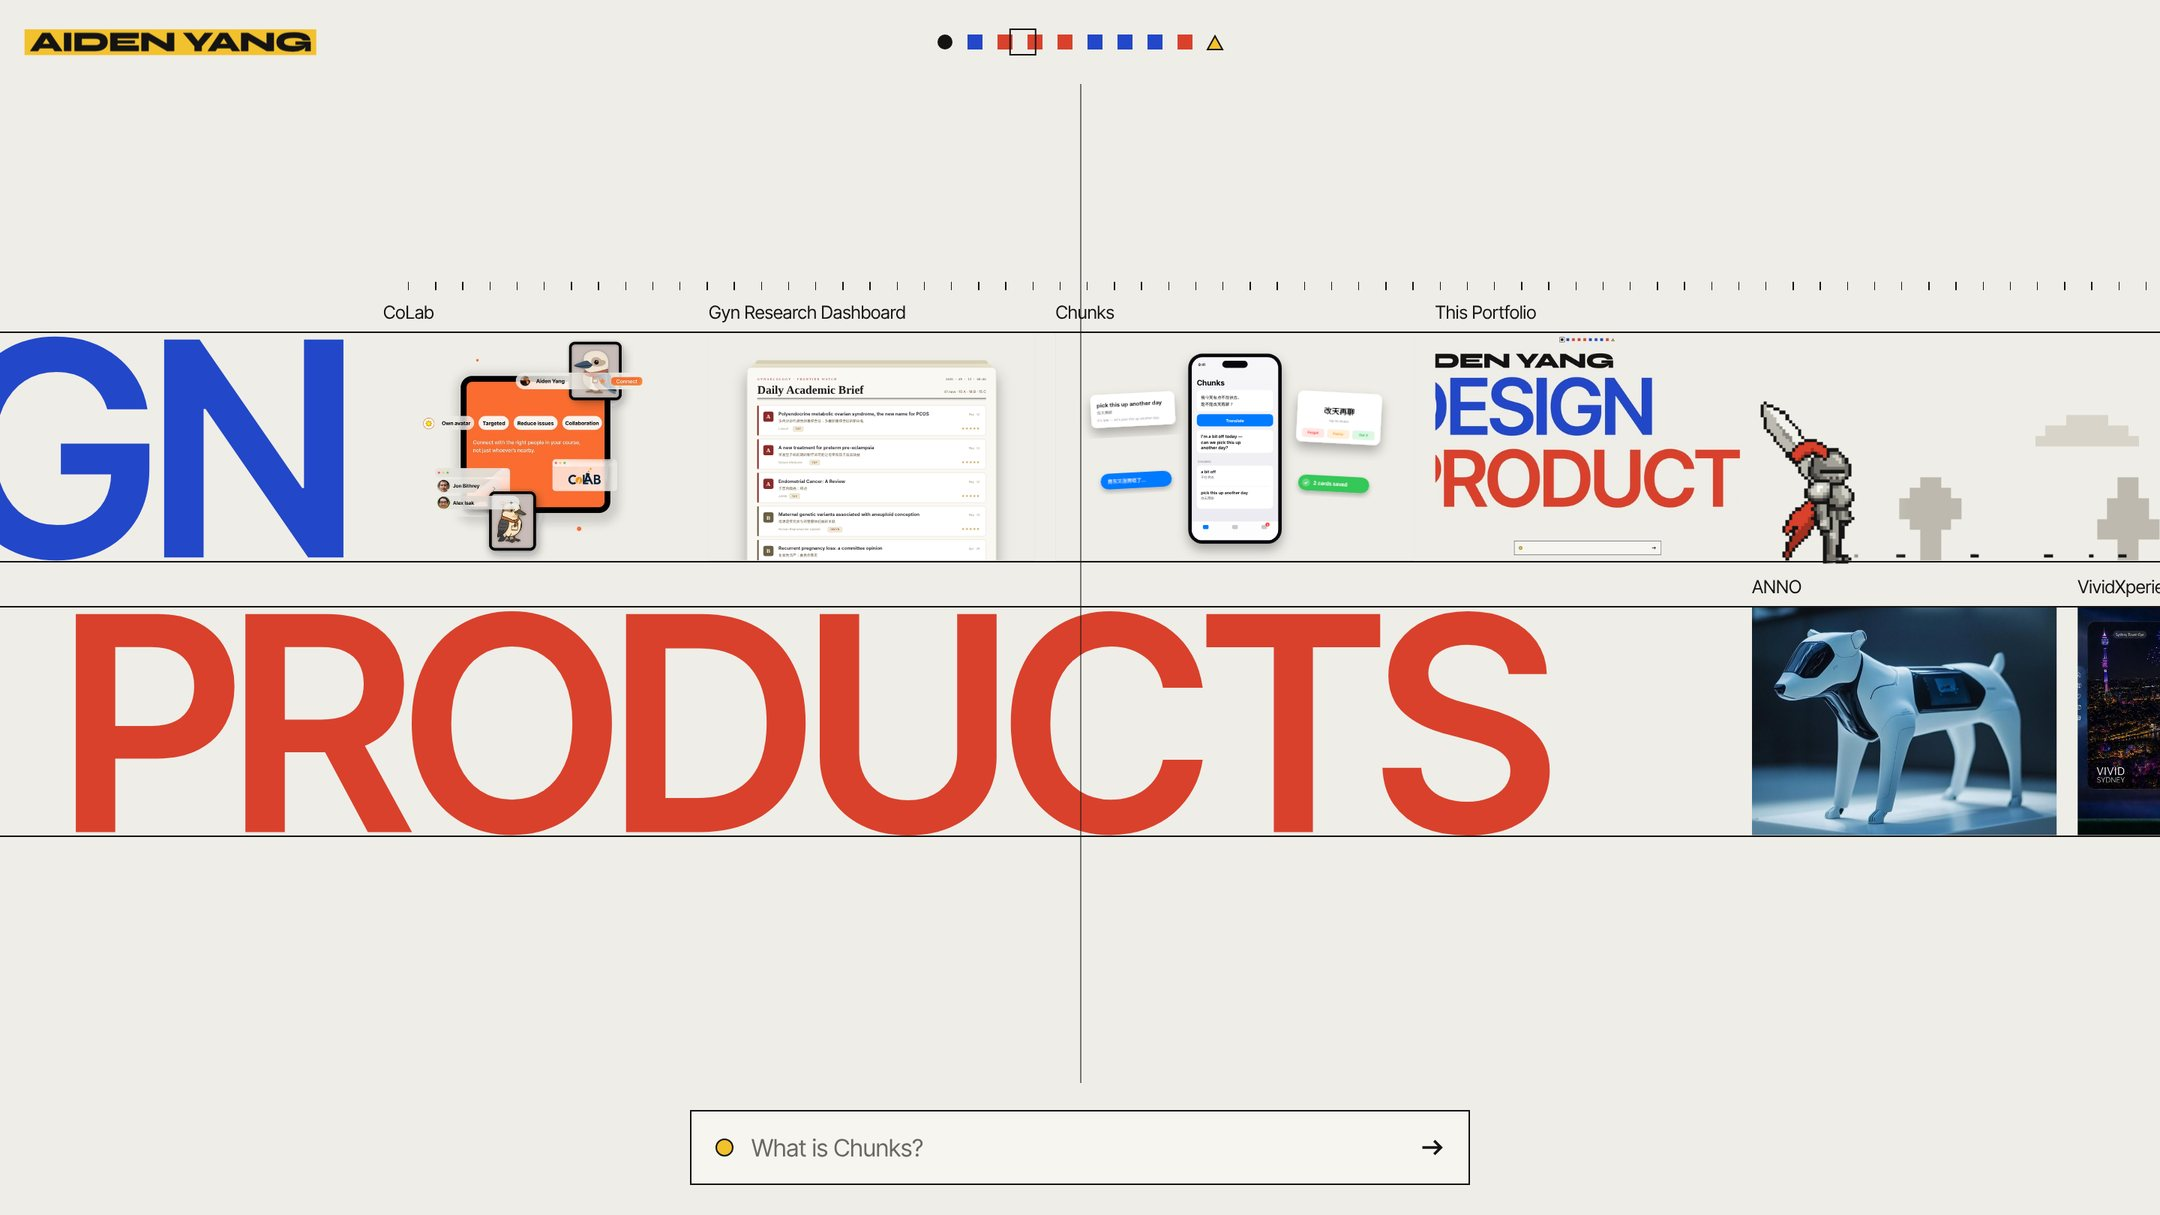
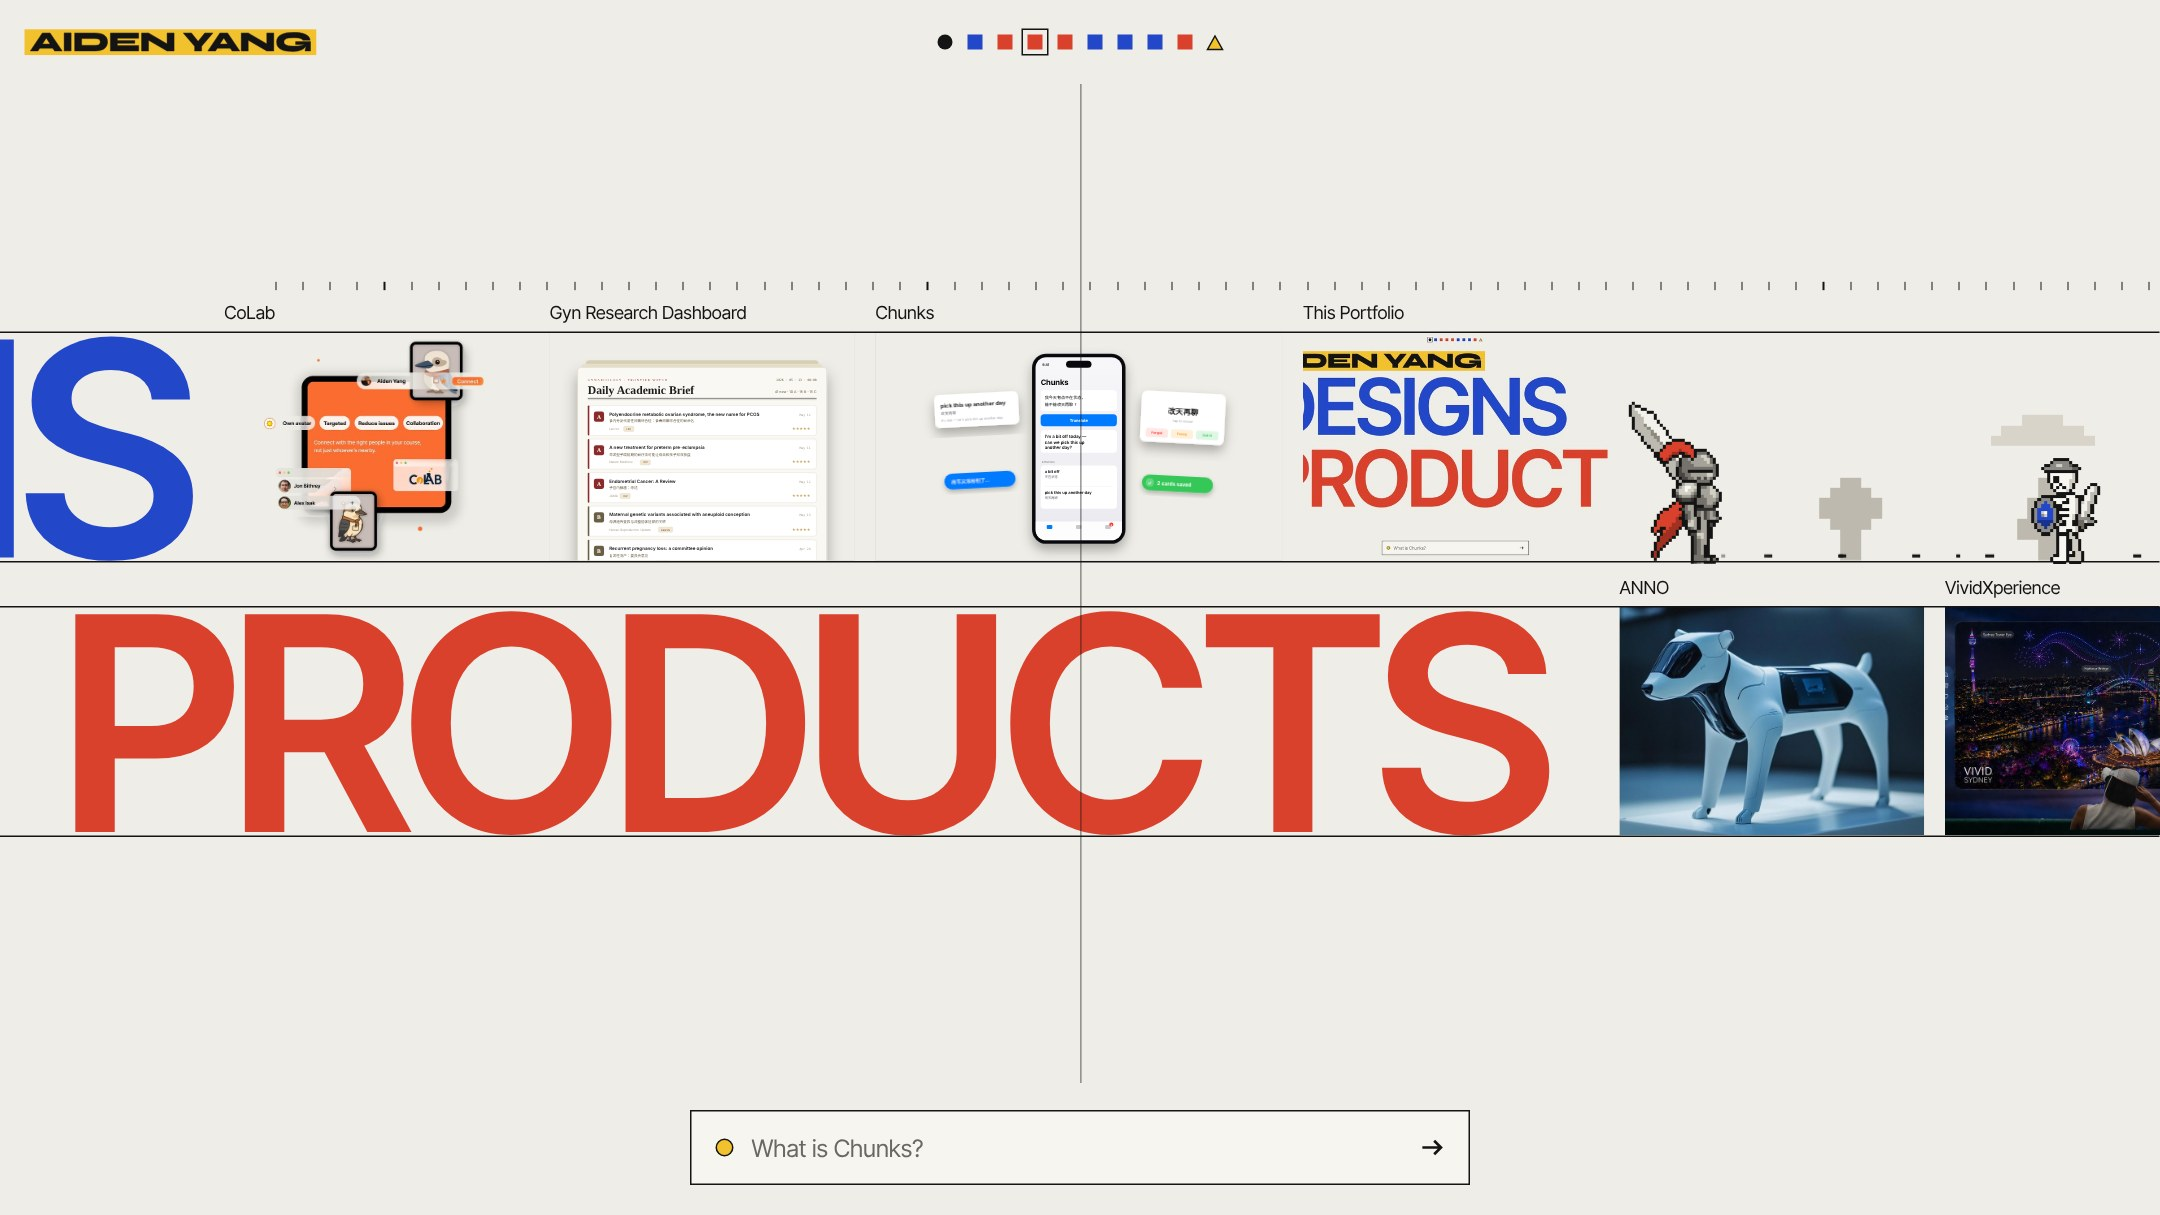
Homepage: DESIGN → DESIGNS, so the opening reads as one sentence
AIDEN YANG DESIGNS PRODUCTS. Re-shot the homepage screenshots and the
This Portfolio thumbnail, and told AI Aiden the rows are not categories.

Claude-Session: https://claude.ai/code/session_01VzWjWzK5NHuZU2Nujf8Cn2

Changed region(s): [[0.0, 0.2436, 1.0, 0.7004]]

diff --git a/index.html b/index.html
@@ -228,7 +228,7 @@ body{overflow-x:hidden}
 
 <div id="tl-world" style="position: absolute; left: 0; top: 0; width: 0; height: 0; transform-origin: 0 0; transform: translate(50vw, calc(50vh - 72px)) scale(1.09) translate(-644px, -242px)">
 <span aria-hidden="true" style="translate: var(--sh, 0px) 0; position: absolute; left: 1260px; top: -48px; width: 2565px; height: 8px; background: repeating-linear-gradient(90deg, #141414 0px, #141414 1px, transparent 1px, transparent 26.1px)"></span>
-<span data-pin="1" data-lane="1" data-side="pre" data-a="0" data-b="1260" aria-hidden="true" style="position: absolute; left: 0; top: 0; height: 220px; overflow: hidden; pointer-events: none; transform: translateX(20px)"><span class="lift" style="animation-delay: .1s; margin-top: 2px; height: 220px; line-height: 220px; padding-right: 0.05em; font-size: 288px; font-weight: 600; letter-spacing: -0.04em; color: var(--c1); white-space: nowrap">DESIGN</span></span>
+<span data-pin="1" data-lane="1" data-side="pre" data-a="0" data-b="1260" aria-hidden="true" style="position: absolute; left: 0; top: 0; height: 220px; overflow: hidden; pointer-events: none; transform: translateX(20px)"><span class="lift" style="animation-delay: .1s; margin-top: 2px; height: 220px; line-height: 220px; padding-right: 0.05em; font-size: 288px; font-weight: 600; letter-spacing: -0.04em; color: var(--c1); white-space: nowrap">DESIGNS</span></span>
 <span data-pin="1" data-lane="2" data-side="pre" data-a="0" data-b="2552" aria-hidden="true" style="position: absolute; left: 0; top: 264px; height: 220px; overflow: hidden; pointer-events: none; transform: translateX(20px)"><span class="lift" style="animation-delay: .25s; margin-top: 2px; height: 220px; line-height: 220px; padding-right: 0.05em; font-size: 288px; font-weight: 600; letter-spacing: -0.04em; color: var(--c2); white-space: nowrap">PRODUCTS</span></span>
 
 <span aria-hidden="true" style="position: absolute; left: 2620px; top: 0; width: 1304px; height: 220px; overflow: hidden; pointer-events: none; -webkit-mask-image: linear-gradient(90deg, transparent 0px, #000 80px, #000 1150px, transparent 1290px); mask-image: linear-gradient(90deg, transparent 0px, #000 80px, #000 1150px, transparent 1290px)">
@@ -323,7 +323,7 @@ body{overflow-x:hidden}
 </main>
 <div id="mv">
 <div class="mv-bar" aria-hidden="true"></div>
-<div class="mv-hero"><div class="mv-ns"></div><div class="mv-w" style="color: var(--c1)"><span class="lift" style="animation-delay: .1s">DESIGN</span></div><div class="mv-w" style="color: var(--c2)"><span class="lift" style="animation-delay: .25s">PRODUCTS</span></div></div>
+<div class="mv-hero"><div class="mv-ns"></div><div class="mv-w" style="color: var(--c1)"><span class="lift" style="animation-delay: .1s">DESIGNS</span></div><div class="mv-w" style="color: var(--c2)"><span class="lift" style="animation-delay: .25s">PRODUCTS</span></div></div>
 <div class="mv-tl"><i class="mv-ticks" aria-hidden="true"></i></div>
 <div class="mv-end"><h2><span>READY TO</span><span class="y">START?</span></h2><div class="mv-links"><a class="lnk" href="mailto:AidenYang5995@gmail.com">Send a message</a><a class="lnk" href="https://www.linkedin.com/in/aiden-yang-ty">LinkedIn</a><a class="lnk" href="https://github.com/Li1aid">GitHub</a></div></div>
 <span class="mv-ph" aria-hidden="true"></span>

diff --git a/projects/this-site.html b/projects/this-site.html
@@ -31,7 +31,7 @@
 <p class="cs-sub">A portfolio you scrub like a video timeline.</p>
 <dl class="cs-meta"><div><dt>Role</dt><dd>Design · Direction</dd></div><div><dt>Year</dt><dd>2026</dd></div><div><dt>Stack</dt><dd>HTML · CSS · JS, no build</dd></div><div><dt>Built With</dt><dd>Claude</dd></div></dl>
 </div></section>
-<section class="cs-shots"><img src="../Assets/site/home-1.jpg" alt="The homepage at rest: the name, DESIGN in blue and PRODUCTS in red on one timeline" loading="lazy"/></section>
+<section class="cs-shots"><img src="../Assets/site/home-1.jpg" alt="The homepage at rest: the name, DESIGNS in blue and PRODUCTS in red on one timeline" loading="lazy"/></section>
 <section class="cs-sec"><div class="cs-col">
 <p class="cs-eye">Idea</p>
 <h2>The homepage is a video timeline.</h2>
@@ -42,7 +42,7 @@
 <section class="cs-sec"><div class="cs-col">
 <p class="cs-eye">How</p>
 <h2>One number drives the whole page.</h2>
-<ol class="cs-list"><li><h3>Zoom</h3><p>The first 560 pixels of scroll pull the camera back to 72%, so the two giant words shrink into track labels. The last 560 push it in again for the ending.</p></li><li><h3>Accordion</h3><p>The clip under the playhead grows by up to 98 pixels and slides every later clip along. Its width is a function of distance to the playhead, so it opens and closes as you pass.</p></li><li><h3>Pinned words</h3><p>DESIGN and PRODUCTS stay at the left edge until the first clip of their track arrives and pushes them off screen.</p></li><li><h3>Parallax</h3><p>Two background layers move at 0.7 and 0.4 of the scroll, which is enough to give a flat page some depth.</p></li></ol>
+<ol class="cs-list"><li><h3>Zoom</h3><p>The first 560 pixels of scroll pull the camera back to 72%, so the two giant words shrink to the height of the tracks. The last 560 push it in again for the ending.</p></li><li><h3>Accordion</h3><p>The clip under the playhead grows by up to 98 pixels and slides every later clip along. Its width is a function of distance to the playhead, so it opens and closes as you pass.</p></li><li><h3>Pinned words</h3><p>DESIGN and PRODUCTS stay at the left edge until the first clip of their track arrives and pushes them off screen.</p></li><li><h3>Parallax</h3><p>Two background layers move at 0.7 and 0.4 of the scroll, which is enough to give a flat page some depth.</p></li></ol>
 </div></section>
 <section class="cs-shots c2"><img src="../Assets/site/home-2.jpg" alt="Zoomed out: clips on two tracks under a ruler" loading="lazy"/><img src="../Assets/site/home-3.jpg" alt="The knight attacking a skeleton on the empty stretch of the upper track" loading="lazy"/></section>
 <section class="cs-proto"><figure class="proto-fig"><div class="proto" id="proto2"></div><figcaption>Push</figcaption></figure></section>

diff --git a/projects/proto/this-site.js b/projects/proto/this-site.js
@@ -33,7 +33,7 @@
       var el = P.h('div', { 'class': 'cl', text: n[0], style: 'left:' + n[2] + 'px;top:' + (n[1] === 1 ? 70 : 160) + 'px;width:' + BASEW + 'px;background:' + (n[3] ? P.red : P.blue) }, wd);
       lanes[n[1]].push({ el: el, x0: n[2], c0: n[2] + BASEW / 2, x: n[2], w: BASEW });
     });
-    var pins = [P.h('div', { 'class': 'pin', text: 'DESIGN', style: 'top:70px;color:' + P.blue }, wd), P.h('div', { 'class': 'pin', text: 'PRODUCTS', style: 'top:160px;color:' + P.red }, wd)];
+    var pins = [P.h('div', { 'class': 'pin', text: 'DESIGNS', style: 'top:70px;color:' + P.blue }, wd), P.h('div', { 'class': 'pin', text: 'PRODUCTS', style: 'top:160px;color:' + P.red }, wd)];
     P.h('div', { style: 'position:absolute;left:' + ENDX + 'px;top:160px;width:900px;height:70px;background:' + P.yellow }, wd);
     P.h('div', { 'class': 'ph' }, st);
     var ct = P.h('div', { 'class': 'ct' }, root);

diff --git a/knowledge.md b/knowledge.md
@@ -11,7 +11,7 @@ Keep these answers to the usual length (2–3 sentences): give the core idea, an
 
 - **Order of the work on the homepage** (top row, left to right, then bottom row): 1 CoLab, 2 Gyn Research Dashboard, 3 Chunks, 4 This Portfolio; then 5 ANNO, 6 VividXperience, 7 Whisperfield, 8 Investment Assistant. This is the order Aiden chose to show them in, not a date order. The detail pages follow the same order.
 - **Layout:** the homepage looks like a video-editing timeline: two rows of project clips on one ruler, and a playhead. Scrolling moves the playhead; every visual on the page is computed from that one scroll value, so it plays the same forwards and backwards.
-- **Opening screen:** only the name AIDEN YANG (black letters on a yellow band) and two big words, DESIGN in blue and PRODUCTS in red. The clips slide in from the right as you scroll.
+- **Opening screen:** only the name AIDEN YANG (black letters on a yellow band) and two big words, DESIGNS in blue and PRODUCTS in red. Read top to bottom it is one sentence: "Aiden Yang designs products." The two rows are not categories: the top row holds the four projects Aiden would show first, the bottom row the rest. The clips slide in from the right as you scroll.
 - **The knight:** a small pixel-art game in an empty stretch of the top row, nothing more. The playhead pushes a knight to the right, three different skeletons stand in his way and fall over when he reaches them, and he fades out with the scenery. It is a playful detail, not a metaphor or symbol — do not attach a meaning to it.
 - **How it was built:** plain HTML, CSS and JavaScript on GitHub Pages, no framework and no build step. Aiden set the direction and judged each version; Claude wrote the code and a small Python rig that generated the knight and skeleton sprites. The full explanation is in section 4.4 and on https://aidenyang.me/projects/this-site.html
 - **Phones:** a separate upright version that scrolls top to bottom, with one column of large clips.
@@ -136,10 +136,10 @@ Each detail page has one or more small interactive prototypes written for that p
 **The idea:** the homepage is laid out the way a video editor sees a project — two tracks of clips on one ruler, with a playhead. Scrolling moves the playhead instead of moving a page. Everything on screen is calculated from that one scroll value, so the page plays the same forwards and backwards at any speed; there are no scroll-triggered animations waiting to fire. The reference was rauno.me: Aiden wanted its logic (motion tied to scroll), not its look.
 
 **How the homepage visuals work:**
-- Opening: only the name and two words, DESIGN (blue) and PRODUCTS (red), are on screen. The timeline waits just off the right edge and slides in as you scroll.
+- Opening: only the name and two words, DESIGNS (blue) and PRODUCTS (red), are on screen, reading as one sentence: "Aiden Yang designs products." The timeline waits just off the right edge and slides in as you scroll.
 - Zoom: the first stretch of scroll pulls the camera back to 72% so the giant words shrink to track height; the end pushes back in for "READY TO START?".
 - Accordion: the clip under the playhead grows wider and pushes later clips along; its width depends on its distance from the playhead.
-- Pinned words: DESIGN and PRODUCTS stay at the left edge until the first clip of their row pushes them off.
+- Pinned words: DESIGNS and PRODUCTS stay at the left edge until the first clip of their row pushes them off.
 - Parallax: two background layers move at 0.7 and 0.4 of the scroll.
 - The knight: an empty stretch of the top row holds a small game. The playhead pushes a pixel knight right; three different skeletons (sword and shield, spear, horned axe) stand in his way. He has eight frames (one idle, four running, three attacking); the frame depends only on how far he has been pushed, so he runs backwards when you scroll back. Each skeleton notices him, tips over and becomes a pile of bones. The knight then fades out with the scenery.
 - The sprites were generated, not hand-drawn: a small Python rig builds each pose from joints with a one-pixel outline per part and exports frames as SVG rectangles, so they stay sharp at any zoom.
